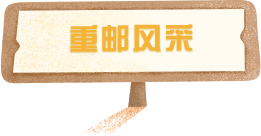
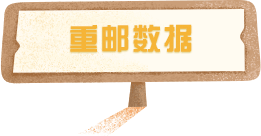
改标题

Changed region(s): [[0.4904, 0.1765, 0.7663, 0.4118]]

diff --git a/index.html b/index.html
@@ -2,11 +2,7 @@
 <html>
 <head>
 	<meta charset="utf-8">
-<<<<<<< HEAD
-	<title>（2017）走，到重邮追梦去！</title>
-=======
-	<title>走，到重邮追梦去！</title>
->>>>>>> e2d950d3451b42a5fc1a12dfb62fcb00a2cc62be
+	<title>2017迎新网上线 | 走，到重邮追梦去！</title>
 	<meta name="renderer" content="webkit">
 	<meta http-equiv="X-UA-Compatible" content="IE=edge,chrome=1">
 	<script>
